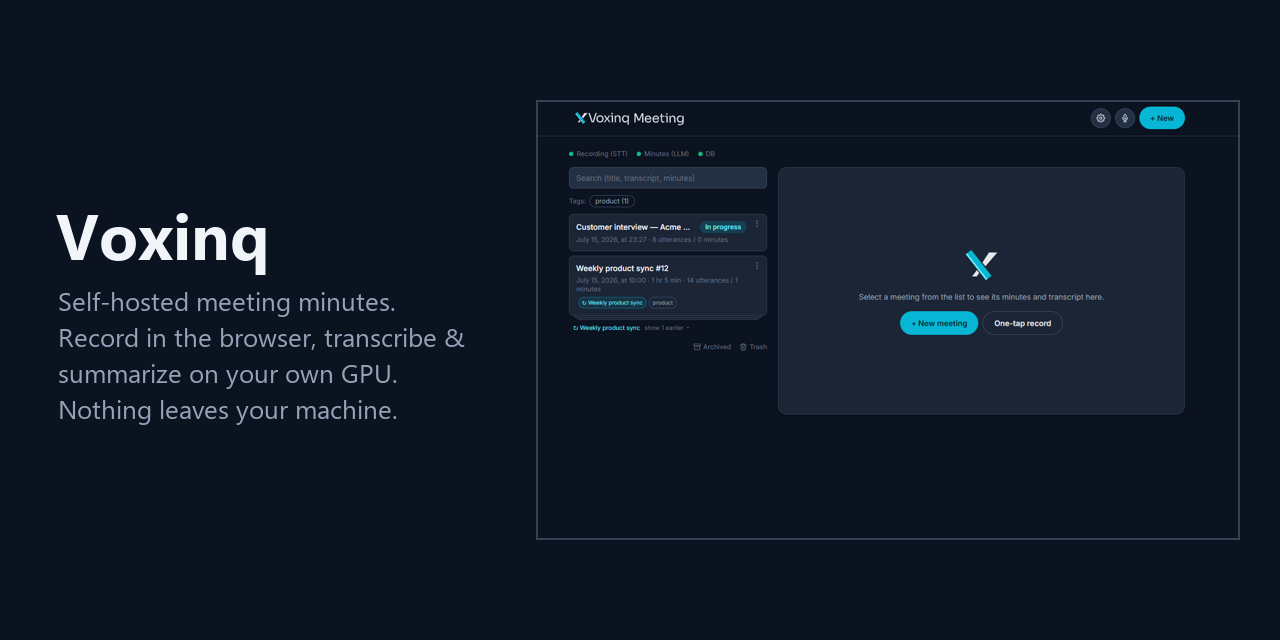
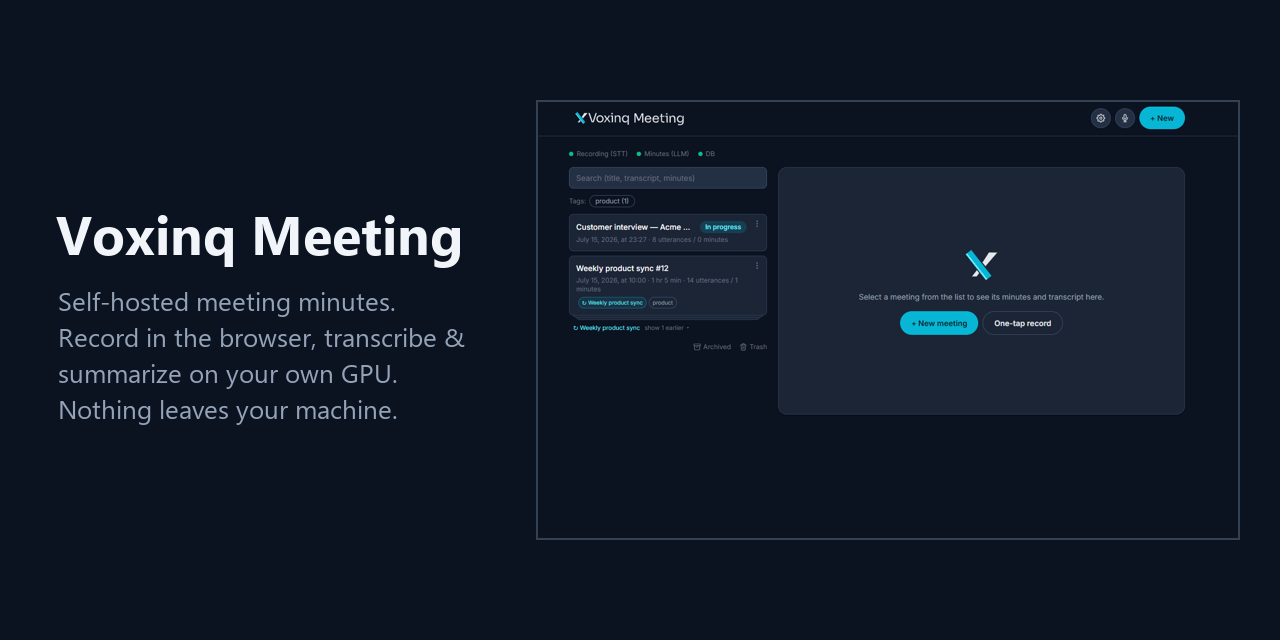
Unify the app name as 'Voxinq Meeting'
Browser tab title, PWA manifest, logo alt text, export footer, README,
and docs now all say Voxinq Meeting (the PWA short_name stays 'Voxinq'
because home-screen labels truncate). Also point the clone URL at the
actual repository name and regenerate the social preview card.

Changed region(s): [[0.0312, 0.3125, 0.375, 0.4375]]

diff --git a/app/layout.tsx b/app/layout.tsx
@@ -16,9 +16,9 @@ const fontNoto = Noto_Sans_JP({
 });
 
 export const metadata: Metadata = {
-  title: "Voxinq",
+  title: "Voxinq Meeting",
   description: "Self-hosted meeting minutes system",
-  appleWebApp: { capable: true, title: "Voxinq", statusBarStyle: "black-translucent" },
+  appleWebApp: { capable: true, title: "Voxinq Meeting", statusBarStyle: "black-translucent" },
 };
 
 export const viewport = {
@@ -29,12 +29,12 @@ function HeaderNav({ external }: { external: boolean }) {
   return (
     <header className="border-b border-[var(--border)] bg-[var(--header)]">
       <div className="mx-auto flex max-w-6xl items-center justify-between px-4 py-3">
-        <Link href="/" aria-label="Voxinq home" className="flex items-center">
+        <Link href="/" aria-label="Voxinq Meeting home" className="flex items-center">
           {/* Show the logo per theme (.logo-dark/.logo-light in globals.css) */}
           {/* eslint-disable-next-line @next/next/no-img-element */}
-          <img src="/logo.svg" alt="Voxinq" className="logo-dark h-9 w-auto" />
+          <img src="/logo.svg" alt="Voxinq Meeting" className="logo-dark h-9 w-auto" />
           {/* eslint-disable-next-line @next/next/no-img-element */}
-          <img src="/logo-light.svg" alt="Voxinq" className="logo-light h-9 w-auto" />
+          <img src="/logo-light.svg" alt="Voxinq Meeting" className="logo-light h-9 w-auto" />
         </Link>
         <nav className="flex items-center gap-2">
           <Link href="/settings" className="btn-icon" title="Settings" aria-label="Settings">

diff --git a/app/manifest.ts b/app/manifest.ts
@@ -4,7 +4,8 @@ import type { MetadataRoute } from "next";
 // Icons are placed by the user under public/icons/ (installation works even without them).
 export default function manifest(): MetadataRoute.Manifest {
   return {
-    name: "Voxinq",
+    name: "Voxinq Meeting",
+    // Home-screen labels truncate around ~12 chars, so keep the short name short.
     short_name: "Voxinq",
     description: "Self-hosted meeting minutes system",
     start_url: "/",

diff --git a/app/api/meetings/[id]/export/route.ts b/app/api/meetings/[id]/export/route.ts
@@ -85,7 +85,7 @@ export async function GET(req: NextRequest, { params }: { params: Promise<{ id: 
       `- **Transcription language:** ${meeting.sttLanguage ?? "auto (settings default)"}`,
       `- **Whisper model (current setting):** ${s.whisperModel}`,
       "",
-      `_Exported from Voxinq on ${formatDateTime(new Date())}_`,
+      `_Exported from Voxinq Meeting on ${formatDateTime(new Date())}_`,
     ]
       .filter((l): l is string => l !== null)
       .join("\n");

diff --git a/app/globals.css b/app/globals.css
@@ -2,7 +2,7 @@
 @plugin "@tailwindcss/typography";
 
 /* ============================================================
-   Voxinq theme
+   Voxinq Meeting theme
    Built around the cyan of the brand icon; layers are conveyed by
    brightness differences of the surfaces (surface/elevated).
    Dark by default. <html data-theme="light"> switches to light

diff --git a/app/settings/page.tsx b/app/settings/page.tsx
@@ -266,7 +266,7 @@ export default function SettingsPage() {
               onChange={(e) => update("sttGlossary", e.target.value)}
               disabled={saving}
               rows={2}
-              placeholder="e.g. JST, Moonshot, Jane Doe, Voxinq"
+              placeholder="e.g. JST, Moonshot, Jane Doe, Voxinq Meeting"
               className="input mt-1 resize-y"
             />
             <p className="mt-1 text-xs text-[var(--text-muted)]">

diff --git a/README.md b/README.md
@@ -1,12 +1,12 @@
 <div align="center">
 
-# Voxinq
+# Voxinq Meeting
 
 **Self-hosted meeting minutes — record in the browser, transcribe and summarize on your own GPU. Nothing leaves your machine.**
 
 🎙️ **Record** in the browser → ⚡ **Transcribe** on your GPU → 📝 **Minutes** from your local LLM
 
-![Voxinq demo](docs/screenshots/demo.gif)
+![Voxinq Meeting demo](docs/screenshots/demo.gif)
 
 ![Next.js](https://img.shields.io/badge/Next.js-16-black)
 ![React](https://img.shields.io/badge/React-19-149eca)
@@ -28,11 +28,11 @@
 - 🔍 **Search, tags, archive & trash** — find meetings fast; soft-delete with 30-day restore.
 - 🌐 **Access from your phone** — install as a PWA; reach it over [Tailscale](https://tailscale.com) with optional password auth.
 
-## 💡 Why Voxinq?
+## 💡 Why Voxinq Meeting?
 
-Cloud transcription SaaS means uploading confidential meetings — research, legal, HR, strategy — to someone else's servers. Voxinq keeps everything on hardware you control.
+Cloud transcription SaaS means uploading confidential meetings — research, legal, HR, strategy — to someone else's servers. Voxinq Meeting keeps everything on hardware you control.
 
-| | **Voxinq** | Cloud SaaS |
+| | **Voxinq Meeting** | Cloud SaaS |
 | --- | --- | --- |
 | **Privacy** | 100% local — audio never leaves your machine | Audio uploaded to a third party |
 | **Cost** | Free — runs on a consumer GPU (8 GB VRAM) | Per-user / per-minute subscription |
@@ -44,8 +44,8 @@ Cloud transcription SaaS means uploading confidential meetings — research, leg
 **Prerequisites:** an NVIDIA GPU (CUDA, 8 GB ok), Node.js 20+, Python 3.11, PostgreSQL 17, and [Ollama](https://ollama.com).
 
 ```bash
-git clone https://github.com/ikasast/voxinq.git
-cd voxinq
+git clone https://github.com/ikasast/voxinq-meeting.git
+cd voxinq-meeting
 ./scripts/setup.sh    # Windows: .\scripts\setup.ps1  — checks prereqs, installs everything
 ./scripts/start.sh    # Windows: .\scripts\start.ps1  — starts the STT service + web app
 ```

diff --git a/docs/setup.md b/docs/setup.md
@@ -1,6 +1,6 @@
 # Setup
 
-Voxinq runs on a single GPU box that hosts everything: the web app, PostgreSQL, the STT
+Voxinq Meeting runs on a single GPU box that hosts everything: the web app, PostgreSQL, the STT
 service, diarization, and the LLM. A browser (incl. a phone) connects to it.
 
 ## Prerequisites
@@ -14,8 +14,8 @@ service, diarization, and the LLM. A browser (incl. a phone) connects to it.
 ## Recommended: one-shot script
 
 ```bash
-git clone https://github.com/ikasast/voxinq.git
-cd voxinq
+git clone https://github.com/ikasast/voxinq-meeting.git
+cd voxinq-meeting
 ./scripts/setup.sh      # Windows: .\scripts\setup.ps1
 ```
 

diff --git a/docs/README.md b/docs/README.md
@@ -1,4 +1,4 @@
-# Voxinq Documentation
+# Voxinq Meeting Documentation
 
 The [main README](../README.md) is the quick tour. These pages go deeper — pick by what you
 want to do:
@@ -12,4 +12,4 @@ want to do:
 | **Understand how it works** (components, GPU time-sharing, data flow, retention) | 🏗 [Architecture](architecture.md) |
 | **Fix a problem** (common issues and their causes) | 🩺 [Troubleshooting](troubleshooting.md) |
 
-> Voxinq is self-hosted: audio, transcripts, and minutes stay on your own machine.
+> Voxinq Meeting is self-hosted: audio, transcripts, and minutes stay on your own machine.

diff --git a/docs/troubleshooting.md b/docs/troubleshooting.md
@@ -27,7 +27,7 @@ restart it.
 
 ## Minutes contain content that was never discussed
 
-Usually the business-background context leaking in, or the transcript being truncated. Voxinq
+Usually the business-background context leaking in, or the transcript being truncated. Voxinq Meeting
 sizes the LLM context from the input and chunk-summarizes long meetings; if you changed models,
 make sure the endpoint's context window is adequate. Keep `llmBackground` concise.
 
@@ -43,7 +43,7 @@ times, pass the participant count, or assign speakers manually per line.
 
 ## Out of VRAM
 
-Whisper (`large-v3` ≈ 3 GB) and the LLM (7B ≈ 5 GB) cannot both stay resident on 8 GB. Voxinq
+Whisper (`large-v3` ≈ 3 GB) and the LLM (7B ≈ 5 GB) cannot both stay resident on 8 GB. Voxinq Meeting
 releases Whisper on meeting end. If needed, use a smaller Whisper model (`medium`) or
 `OLLAMA_KEEP_ALIVE=0`.
 

diff --git a/docs/architecture.md b/docs/architecture.md
@@ -34,7 +34,7 @@ flowchart LR
 
 ## GPU time-sharing
 
-Whisper (during a meeting) and the LLM (after) do not both stay resident on 8 GB VRAM. Voxinq
+Whisper (during a meeting) and the LLM (after) do not both stay resident on 8 GB VRAM. Voxinq Meeting
 **releases Whisper on meeting end** so the LLM can run. A UI lock also prevents starting a
 second GPU task (another minutes generation, transcription, or diarization) while one is
 running.

diff --git a/docs/llm-providers.md b/docs/llm-providers.md
@@ -52,7 +52,7 @@ Notes:
 ## Context length & long meetings
 
 - Ollama's context is sized automatically from the input (up to ~24k tokens on 8 GB).
-- If a transcript exceeds the budget, Voxinq **summarizes it in chunks then merges** — the
+- If a transcript exceeds the budget, Voxinq Meeting **summarizes it in chunks then merges** — the
   latter half of a long meeting is never silently dropped. This makes multiple LLM passes, so
   it is slower locally; an external GPU with a big-context model avoids the chunking.
 

diff --git a/docs/usage.md b/docs/usage.md
@@ -17,7 +17,7 @@ Tips:
 
 ## Summarize an existing recording (no live capture)
 
-Drag an audio file (`wav`/`mp3`/`m4a`/…) onto the **New meeting** screen. Voxinq creates the
+Drag an audio file (`wav`/`mp3`/`m4a`/…) onto the **New meeting** screen. Voxinq Meeting creates the
 meeting, transcribes the file, and generates minutes automatically.
 
 ## Recurring series